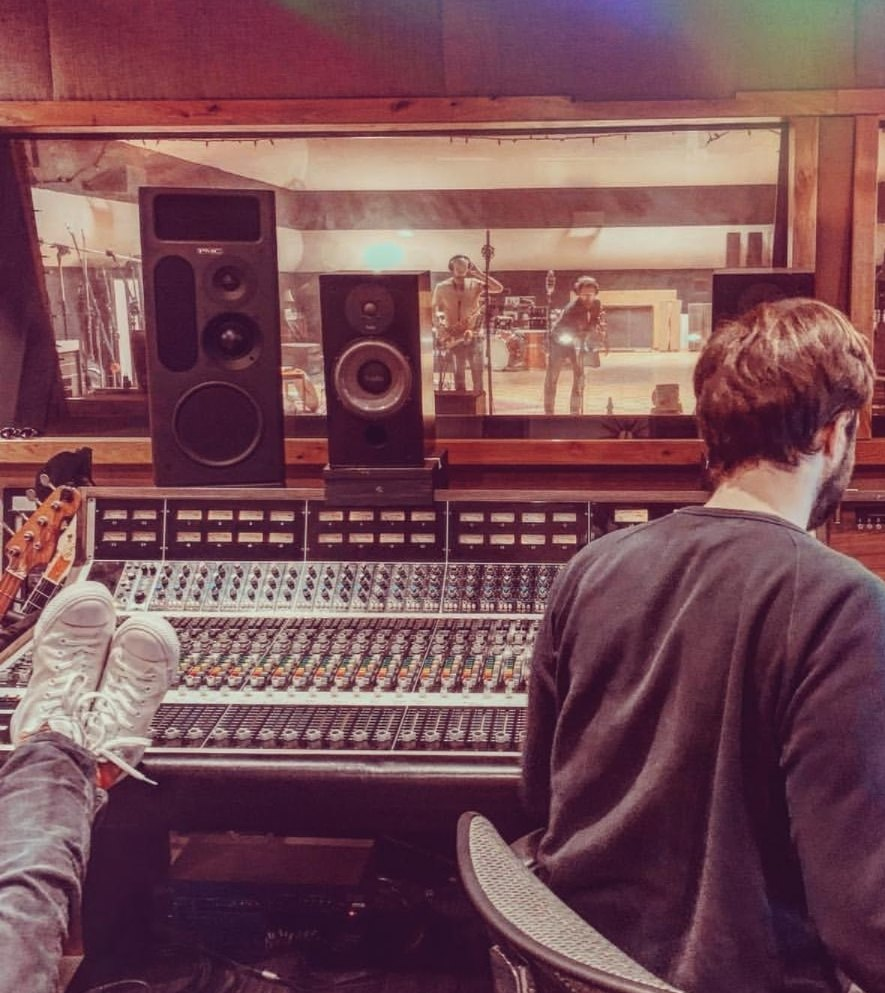
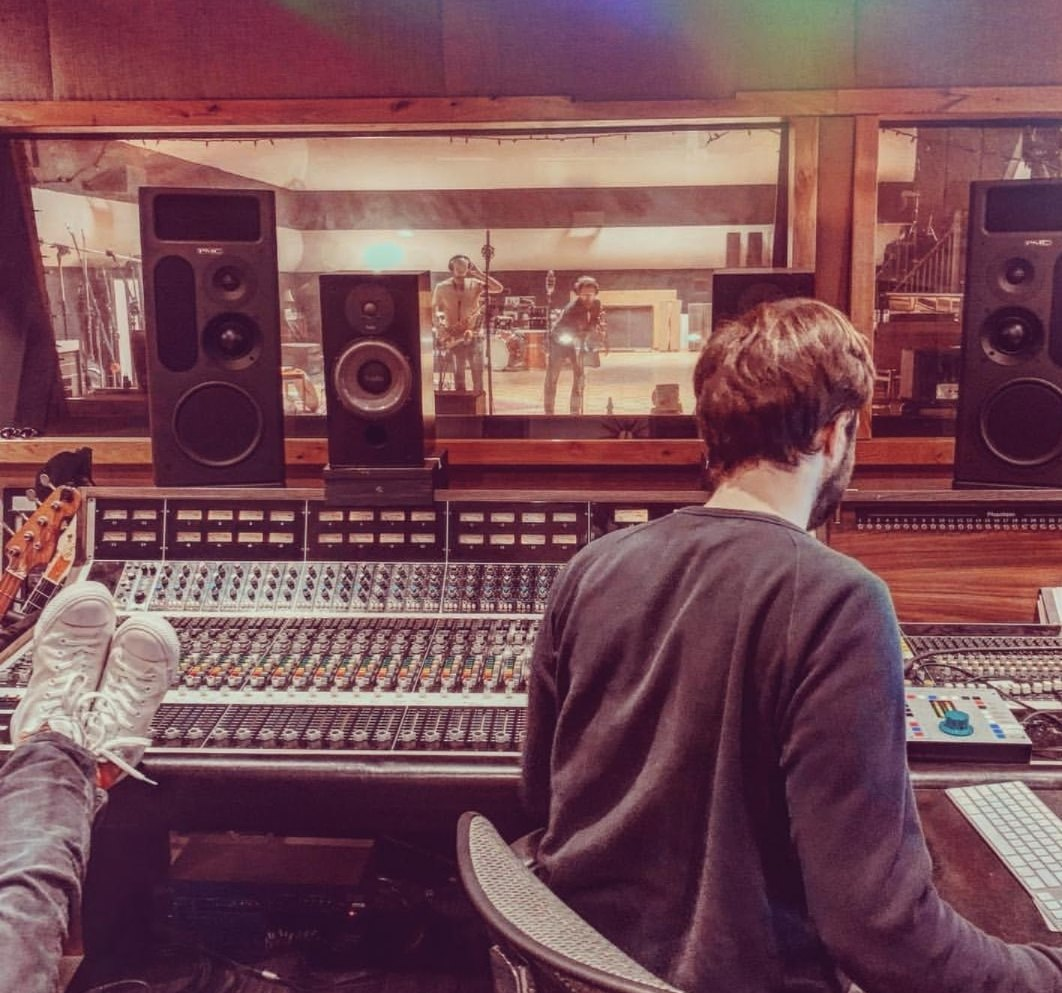
Crop the Nashville photo to its edges
Claude-Session: https://claude.ai/code/session_013BHseFaCuucrqdW1avfrdp

diff --git a/docs/index.html b/docs/index.html
@@ -162,7 +162,7 @@
       <p>On the records side I’ve recently worked with Autoheart, JONES, Olive Jones and Aaron Taylor.</p>
       <div class="about-figures">
         <figure>
-          <img src="images/site/nashville-desk.jpg" alt="Toby from behind at a large analogue mixing desk, with two musicians visible through the control room window" loading="lazy" width="885" height="870">
+          <img src="images/site/nashville-desk.jpg" alt="Toby from behind at a large analogue mixing desk, with two musicians visible through the control room window" loading="lazy" width="1062" height="993">
           <figcaption>At the 1970s API desk in RCA Studio A, Nashville.</figcaption>
         </figure>
         <figure>
